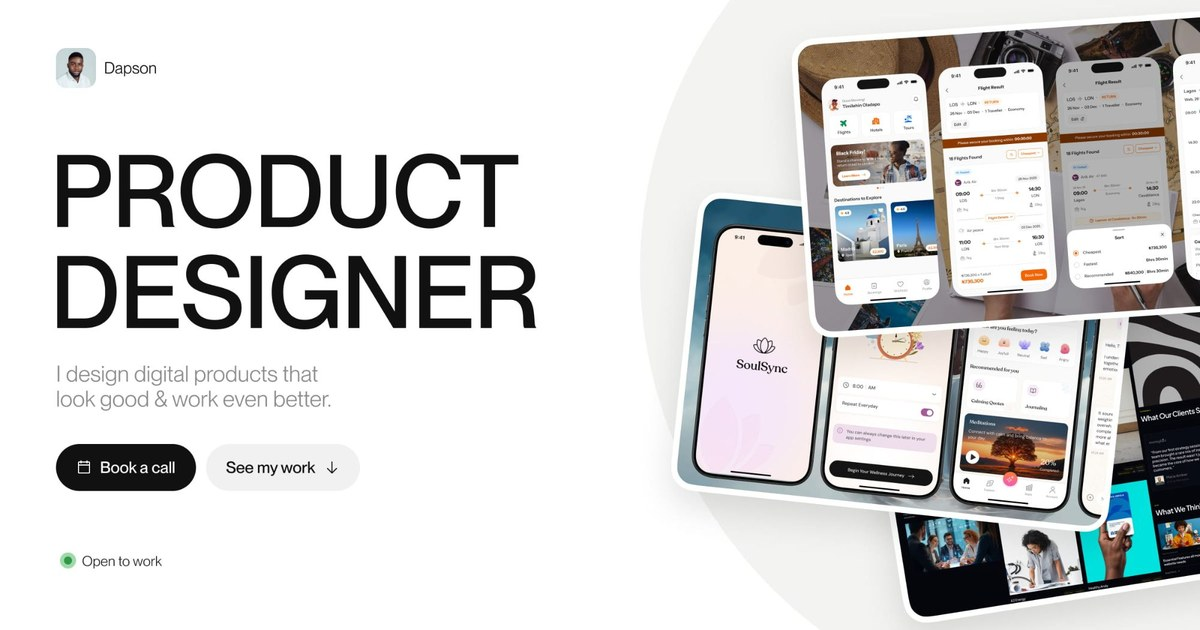
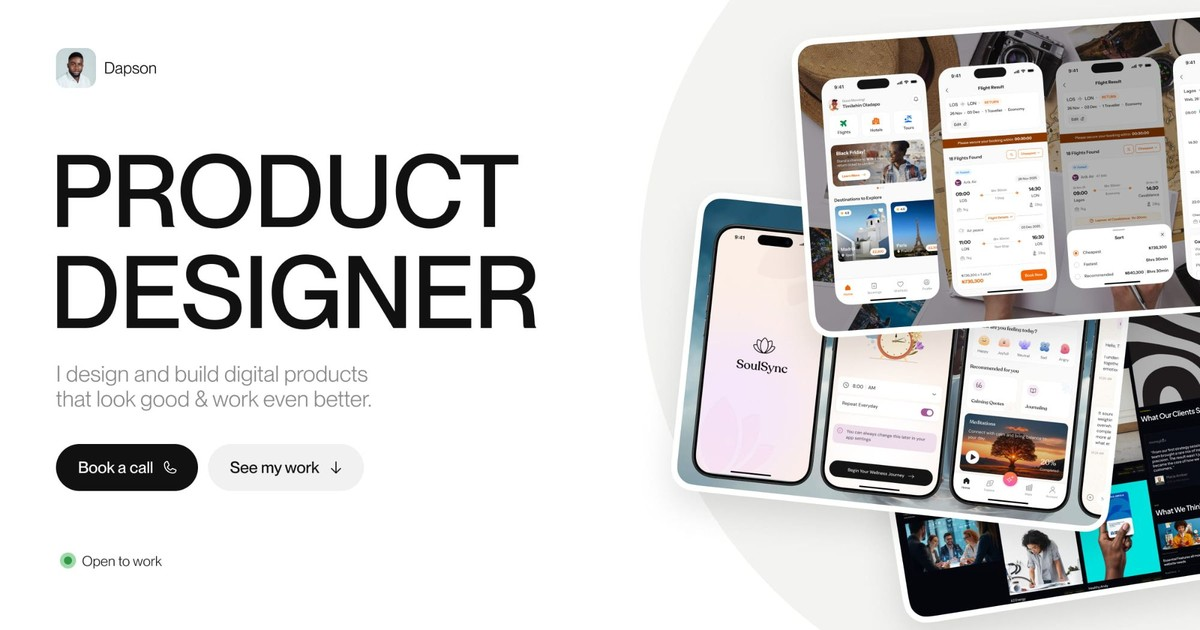
New link preview image
Claude-Session: https://claude.ai/code/session_011NGttG5u8Fru5w27MmCksQ

Changed region(s): [[0.0308, 0.573, 0.3083, 0.6635], [0.185, 0.7238, 0.2775, 0.754], [0.0617, 0.7238, 0.1542, 0.754]]

diff --git a/src/app/work/[slug]/page.tsx b/src/app/work/[slug]/page.tsx
@@ -21,8 +21,8 @@ export async function generateMetadata({ params }: PageProps<"/work/[slug]">): P
     title: `${study.name} — Timilehin Oladapo`,
     description,
     alternates: { canonical: url },
-    openGraph: { title, description, url, type: "article", siteName: "Timilehin Oladapo", images: [{ url: "/opengraph-image.jpg", width: 1200, height: 630, alt: "Dapson, Product Designer: I design digital products that look good and work even better." }] },
-    twitter: { card: "summary_large_image", title, description, creator: "@tp_dapson", images: ["/twitter-image.jpg"] },
+    openGraph: { title, description, url, type: "article", siteName: "Timilehin Oladapo", images: [{ url: "/opengraph-image.jpg?v=2", width: 1200, height: 630, alt: "Dapson, Product Designer: I design and build digital products that look good and work even better." }] },
+    twitter: { card: "summary_large_image", title, description, creator: "@tp_dapson", images: ["/twitter-image.jpg?v=2"] },
   };
 }
 

diff --git a/src/app/playground/page.tsx b/src/app/playground/page.tsx
@@ -6,7 +6,7 @@ export const metadata: Metadata = {
   description:
     "Design explorations, UI concepts and side projects by product designer Timilehin Oladapo, plus products built and shipped with AI-powered tools.",
   alternates: { canonical: "/playground" },
-  openGraph: { title: "Playground — Timilehin Oladapo", url: "/playground", siteName: "Timilehin Oladapo", images: [{ url: "/opengraph-image.jpg", width: 1200, height: 630, alt: "Dapson, Product Designer: I design digital products that look good and work even better." }] },
+  openGraph: { title: "Playground — Timilehin Oladapo", url: "/playground", siteName: "Timilehin Oladapo", images: [{ url: "/opengraph-image.jpg?v=2", width: 1200, height: 630, alt: "Dapson, Product Designer: I design and build digital products that look good and work even better." }] },
 };
 
 // Nav and footer come from the root layout.
